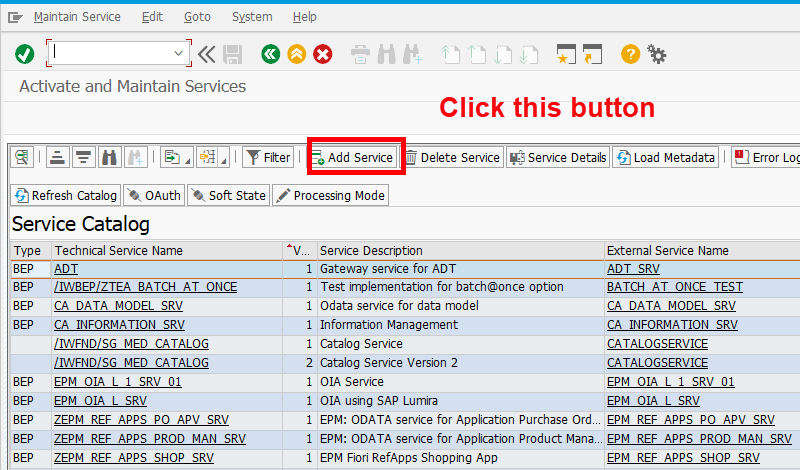
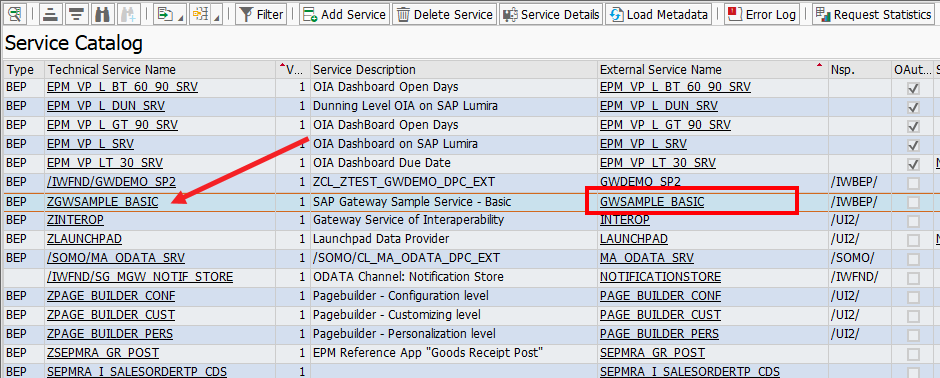
ss

diff --git a/ex_27/Readme.md b/ex_27/Readme.md
@@ -95,28 +95,12 @@ By Default in your system it wont be active, we need to activate it.
 
 
 
-**Steps to activate the Sample basic OData service**
+**Sample basic OData service**
 
-<details>
-<summary> Step by Step activity with images </summary>
 </br>
-</br>
-
-Click Add service in /n/IWFND/MAINT_SERVICE T-code as shown below
-
-</br></br>
 <img src="./files/ui5e27-6a.png" >
 </br></br>
-<img src="./files/ui5e27-6b.png" >
-</br></br>
-<img src="./files/ui5e27-6c.png" >
-</br></br>
-<img src="./files/ui5e27-6d.png" >
-</br></br>
 
-</br>
-</br>
-</details>
 
 
 
